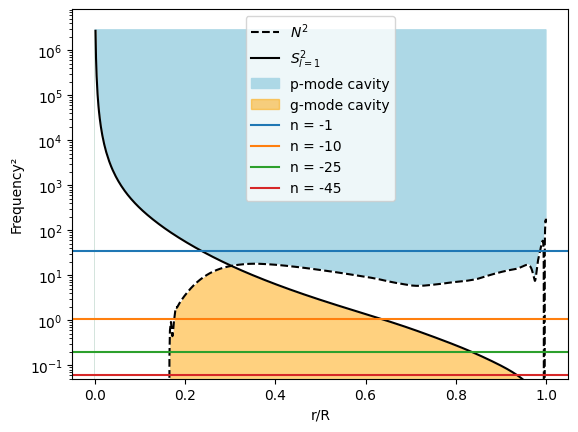
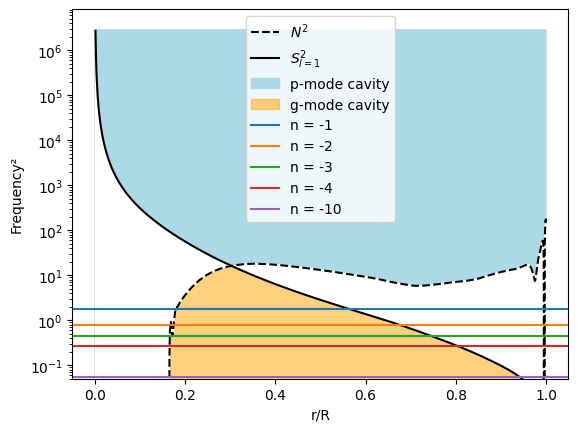
corrected the propagation diagram with frequencies

Changed region(s): [[0.1246, 0.6921, 0.9965, 0.8727], [0.4048, 0.331, 0.6851, 0.5417], [0.1246, 0.5718, 0.9654, 0.6019]]

diff --git a/content/tuesday/lab-1.md b/content/tuesday/lab-1.md
@@ -478,7 +478,7 @@ By looking at the position of modes on the propagation diagram, one can determin
 {{<details title="how modes are placed on the propagation diagram" closed="true">}}
 ![propagation diagram](/tuesday/img/propagation_freqs.png)
 
-Here one can see that the mode `n_pg = -1` is evanescant whereas modes with higher radial order can propagate.
+In this case, all the modes lie in regions where propagation is allowed.
 {{</details>}}
 
 #### Bonus task: inspect the displacement eigenfunctions
@@ -488,10 +488,10 @@ Compare how the eigenfunctions change with radial order.
 
 {{<details title="eigenfunctions" closed="true">}}
 For `n_pg = -1`:
-![propagation diagram](/tuesday/img/eigenfunctions_n1.png)
+![propagation diagram](/tuesday/img/eigenfunctions_n-1.png)
 
 For `n_pg = -50`:
-![propagation diagram](/tuesday/img/eigenfunctions_n50.png)
+![propagation diagram](/tuesday/img/eigenfunctions_n-50.png)
 
 $\tilde{\xi}_{r}$ and $\tilde{\xi}_{h}$ are the radial and horizontal displacement perturbations, respectively. 
 
